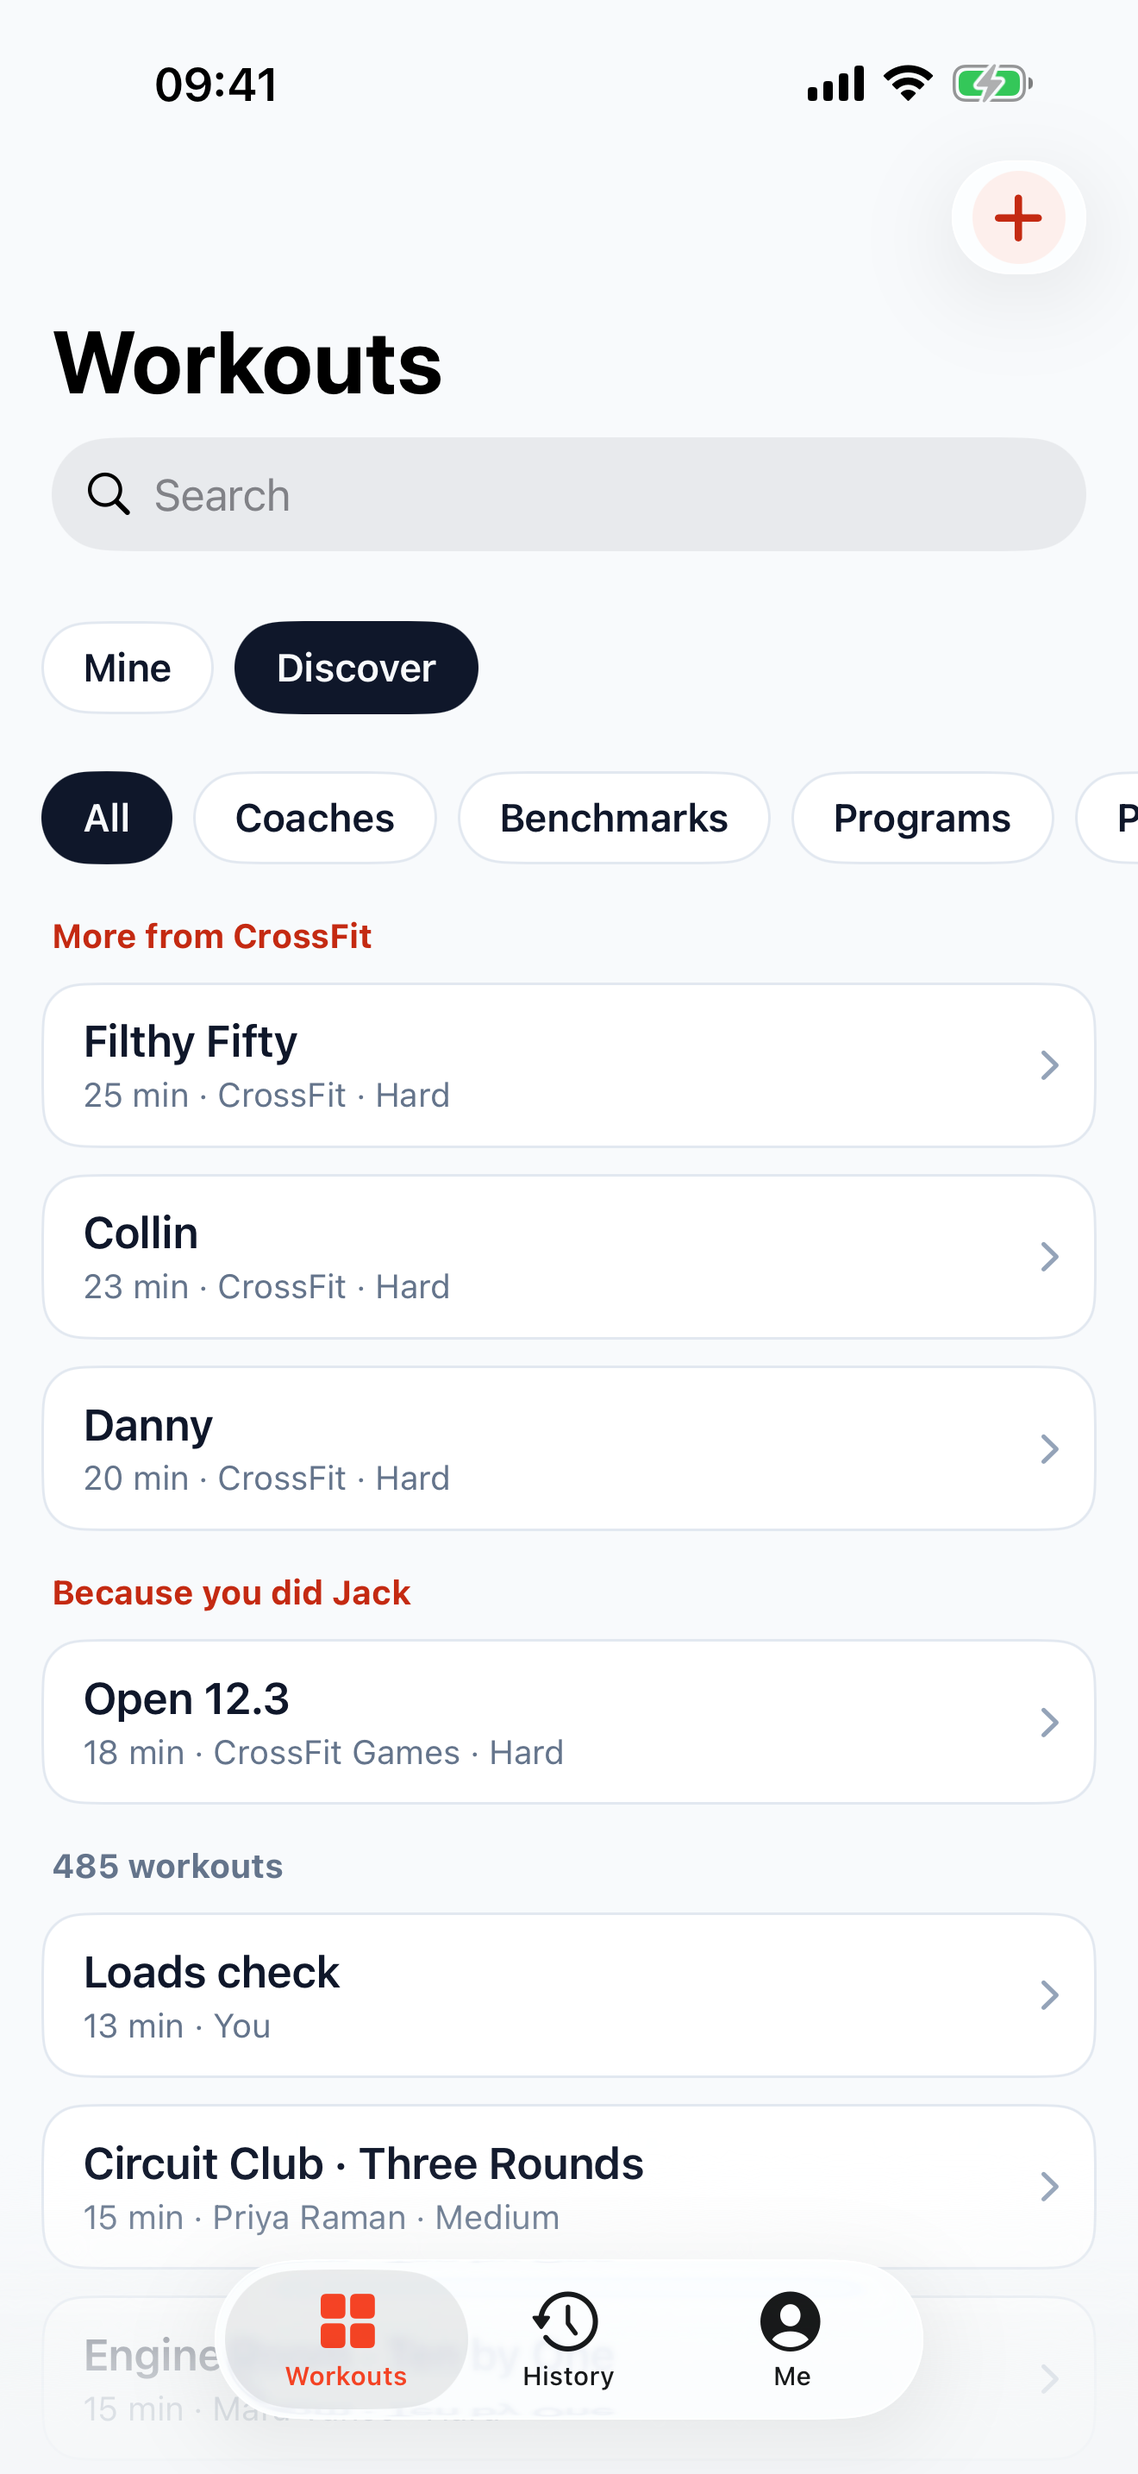
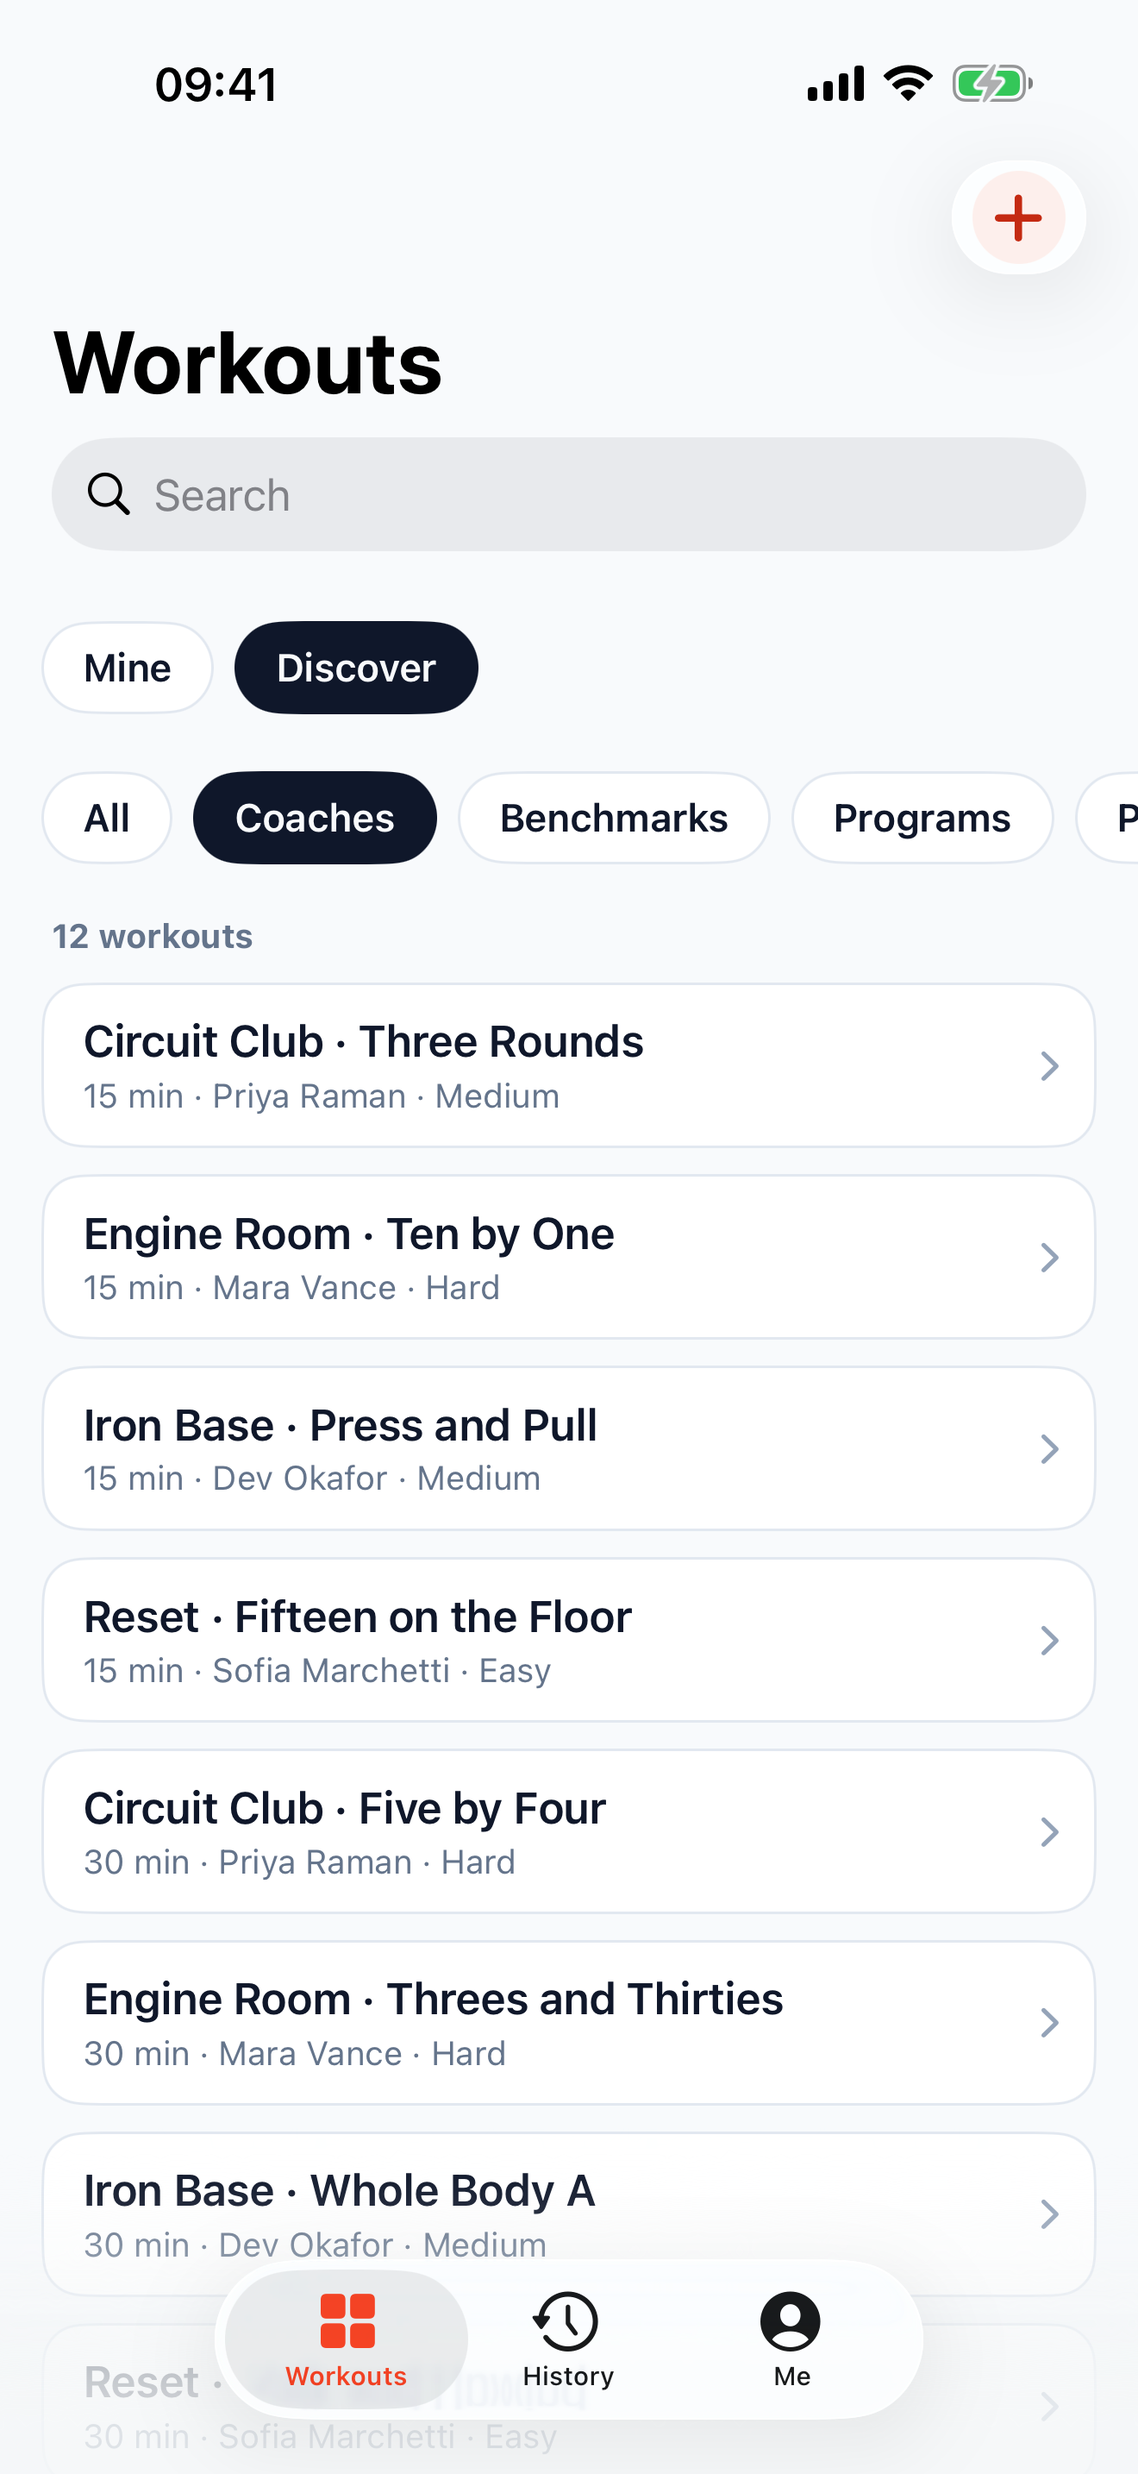
App Store listing: train solo, with AI or a PT (#113)
* ios: App Store screenshots without CrossFit names

Seed history with Engine AMRAP, a workout from Your AI coach, instead of
CrossFit's Jack, and open Discover on Coaches. Recaptured the raw shots.

Claude-Session: https://claude.ai/code/session_01HHeMDARgQx8ywBW6rJa3bh

* ios: App Store shot of an AI-written Arms and abs workout

-seedArmsAbs seeds the 30-minute workout an AI coach writes when asked for
arms and abs; the screenshot run captures it as 09-ai-workout.

Claude-Session: https://claude.ai/code/session_01HHeMDARgQx8ywBW6rJa3bh

* ios: App Store listing for solo, AI or PT training; 9 framed shots; hey@tigerworkouts.com contact

Claude-Session: https://claude.ai/code/session_01HHeMDARgQx8ywBW6rJa3bh

diff --git a/ios/TigerWorkouts/Cloud/Store+Seed.swift b/ios/TigerWorkouts/Cloud/Store+Seed.swift
@@ -82,11 +82,12 @@ extension Store {
         results = (results.filter { !ids.contains($0.rowId) } + seed).sorted { $0.startedAt > $1.startedAt }
     }
 
-    /// `-seedProgress` on launch: Jack (a 20-minute AMRAP) three times at 7, 7 and 8 rounds, the
-    /// newest a minute back so Up next picks it with a Today target, and kettlebell swings stuck at
-    /// 24 kg × 10 for five weeks — three sessions of their own plus the swings inside each Jack — so
-    /// the card has a stall line and the logbook a stall card. Fixed ids: launching with it again
-    /// replaces them.
+    /// `-seedProgress` on launch: "Engine AMRAP" (a 20-minute AMRAP your AI coach wrote) three times
+    /// at 7, 7 and 8 rounds, the newest a minute back so Up next picks it with a Today target, and
+    /// kettlebell swings stuck at 24 kg × 10 for five weeks — three sessions of their own plus the
+    /// swings inside each AMRAP — so the card has a stall line and the logbook a stall card. Not a
+    /// catalogue workout, so the App Store screenshots carry no third-party names. Fixed ids:
+    /// launching with it again replaces them.
     func seedProgressIfAsked(_ arguments: [String] = ProcessInfo.processInfo.arguments) {
         guard arguments.contains("-seedProgress") else { return }
         let day: TimeInterval = 86_400
@@ -100,11 +101,57 @@ extension Store {
                           steps: [swings(3)], id: "seed-progress-swings-\(Int(d))")
         }
         for (d, rounds) in [(14.0, 7.0), (7.0, 7.0), (60.0 / day, 8.0)] {
-            seed.append(SessionResult(runsheetId: "cf-hero-jack", title: "Jack", startedAt: ago(d), durationSec: 1_200, completed: true,
-                                      score: rounds, steps: [swings(Int(rounds))], id: "seed-progress-jack-\(Int(d))"))
+            seed.append(SessionResult(runsheetId: "seed-amrap", title: "Engine AMRAP", startedAt: ago(d), durationSec: 1_200, completed: true,
+                                      score: rounds, steps: [swings(Int(rounds))], id: "seed-progress-amrap-\(Int(d))"))
         }
+        func ex(_ key: String, _ name: String, _ step: Double) -> ExerciseRef {
+            Library.shared.exercise(key)?.ref ?? ExerciseRef(key: key, name: name, unit: "kg", step: step)
+        }
+        let steps: [Step] = [
+            .exercise(ExerciseStep(id: "s1", exercise: ex("bb_push_press", "Push press", 2.5), target: 52, forMode: .reps, forValue: 10)),
+            .exercise(ExerciseStep(id: "s2", exercise: ex("kb_swing", "Kettlebell swings", 4), target: 24, forMode: .reps, forValue: 10)),
+            .exercise(ExerciseStep(id: "s3", exercise: ex("bw_box_jump", "Box jump", 1), forMode: .reps, forValue: 10)),
+        ]
+        var sheet = Runsheet(id: "seed-amrap", title: "Engine AMRAP", items: [
+            .block(Block(id: "seed-amrap-b1", name: "Engine", mode: .amrap, steps: steps, timeCapSec: 1_200)),
+        ])
+        sheet.creator = "Your AI coach"
+        sheet.description = "As many rounds as you can in 20 minutes: 10 push presses, 10 kettlebell swings and 10 box jumps. Keep the swings unbroken; aim for one more round than last time."
+        myWorkouts = [sheet] + myWorkouts.filter { $0.key != "seed-amrap" }
         let ids = Set(seed.compactMap(\.id))
         results = (results.filter { !ids.contains($0.rowId) } + seed).sorted { $0.startedAt > $1.startedAt }
+    }
+
+    /// `-seedArmsAbs` on launch: "Arms and abs", the 30-minute workout an AI coach writes when asked
+    /// for arms and abs today — the App Store shot of a chat request landing in the app. Fixed id:
+    /// launching with it again replaces it.
+    func seedArmsAbsIfAsked(_ arguments: [String] = ProcessInfo.processInfo.arguments) {
+        guard arguments.contains("-seedArmsAbs") else { return }
+        func ex(_ key: String, _ name: String, _ unit: String = "kg", _ step: Double = 1) -> ExerciseRef {
+            Library.shared.exercise(key)?.ref ?? ExerciseRef(key: key, name: name, unit: unit, step: step)
+        }
+        func reps(_ id: String, _ e: ExerciseRef, _ n: Double, _ load: Double? = nil) -> Step {
+            .exercise(ExerciseStep(id: id, exercise: e, target: load, forMode: .reps, forValue: n))
+        }
+        let plank = ExerciseStep(id: "seed-aa-plank", exercise: ex("bw_plank", "Plank", "s", 10), forMode: .seconds, forValue: 45)
+        var sheet = Runsheet(id: "seed-armsabs", title: "Arms and abs", items: [
+            .block(Block(id: "seed-aa-b1", name: "Arms", repeatCount: 4, steps: [
+                reps("seed-aa-curl", ex("db_curl", "Dumbbell curl"), 10, 12),
+                reps("seed-aa-push", ex("cable_tricep_pushdown", "Tricep pushdown", "kg", 2.5), 12, 25),
+                reps("seed-aa-hammer", ex("db_hammer_curl", "Hammer curl"), 10, 12),
+                reps("seed-aa-kick", ex("db_tricep_kickback", "Triceps kickback"), 12, 8),
+                .rest(RestStep(id: "seed-aa-r1", seconds: 90)),
+            ])),
+            .block(Block(id: "seed-aa-b2", name: "Abs", repeatCount: 4, steps: [
+                .exercise(plank),
+                reps("seed-aa-crunch", ex("bw_reverse_crunch", "Reverse crunch", "", 1), 15),
+                reps("seed-aa-twist", ex("bw_russian_twist", "Russian twist", "", 1), 20),
+                .rest(RestStep(id: "seed-aa-r2", seconds: 60)),
+            ])),
+        ])
+        sheet.creator = "Your AI coach"
+        sheet.description = "Biceps, triceps and core in about 30 minutes: four rounds of curls and triceps work, then four rounds of planks, crunches and twists."
+        myWorkouts = [sheet] + myWorkouts.filter { $0.key != "seed-armsabs" }
     }
 
     /// `-seedLoads` on launch: a workout of your own, "Loads check", that embeds the NHS 6-minute

diff --git a/ios/TigerWorkoutsUITests/AppStoreScreenshotsUITests.swift b/ios/TigerWorkoutsUITests/AppStoreScreenshotsUITests.swift
@@ -11,7 +11,7 @@ final class AppStoreScreenshotsUITests: XCTestCase {
         continueAfterFailure = false
         app = XCUIApplication()
         app.launchEnvironment["UITEST_NO_PROMPTS"] = "1"
-        app.launchArguments = ["-seedLogbook", "-seedProgress", "-seedLoads"]
+        app.launchArguments = ["-seedLogbook", "-seedProgress", "-seedLoads", "-seedArmsAbs"]
         app.launch()
         let discard = app.alerts.buttons["Discard"]
         if discard.waitForExistence(timeout: 3) { discard.tap() }
@@ -20,11 +20,13 @@ final class AppStoreScreenshotsUITests: XCTestCase {
     func testAppStoreScreenshots() {
         XCTAssertTrue(app.navigationBars["Workouts"].waitForExistence(timeout: 10))
         tap(app.buttons["Discover"])
+        tap(app.buttons["Coaches"])
         sleep(2)
         snap("01-discover")
+        tap(app.buttons["All"])
         tap(app.buttons["Mine"])
 
-        open("Jack")
+        open("Engine AMRAP")
         XCTAssertTrue(app.descendants(matching: .any)["today-target"].waitForExistence(timeout: 5))
         sleep(1)
         snap("04-today-target")
@@ -51,6 +53,11 @@ final class AppStoreScreenshotsUITests: XCTestCase {
         sleep(1)
         snap("05-exercise")
         if app.buttons["Done"].exists { app.buttons["Done"].firstMatch.tap() }
+        back()
+
+        open("Arms and abs")
+        sleep(1)
+        snap("09-ai-workout")
         back()
 
         tap(app.tabBars.buttons["History"])

diff --git a/ios/TigerWorkoutsUITests/WalkthroughUITests.swift b/ios/TigerWorkoutsUITests/WalkthroughUITests.swift
@@ -1390,7 +1390,7 @@ final class WalkthroughUITests: XCTestCase {
         add(shot)
     }
 
-    /// Today's target and a stall, from seeded history: Jack at 7, 7 and 8 rounds, kettlebell swings
+    /// Today's target and a stall, from seeded history: Engine AMRAP at 7, 7 and 8 rounds, kettlebell swings
     /// stuck at 24 kg × 10 for five weeks.
     func testProgress() {
         app.terminate()
@@ -1407,7 +1407,7 @@ final class WalkthroughUITests: XCTestCase {
         snap("61 Exercise logbook with a stall")
         tap(app.tabBars.buttons["Workouts"])
 
-        open("Jack")
+        open("Engine AMRAP")
         XCTAssertTrue(app.descendants(matching: .any)["today-target"].waitForExistence(timeout: 5), "the workout page should carry the Today target")
         snap("62 Workout page with Today")
         tap(app.buttons["Start workout"])

diff --git a/ios/TigerWorkouts/Cloud/Store.swift b/ios/TigerWorkouts/Cloud/Store.swift
@@ -91,6 +91,7 @@ final class Store {
         seedPaceIfAsked()
         seedProgressIfAsked()
         seedLoadsIfAsked()
+        seedArmsAbsIfAsked()
         seedTimedIfAsked()
         seedVersionsIfAsked()
         seedAICoachIfAsked()

diff --git a/ios/framed-screenshots.py b/ios/framed-screenshots.py
@@ -14,9 +14,10 @@ CHROME = '/Applications/Google Chrome.app/Contents/MacOS/Google Chrome'
 W, H = 1206, 2622
 
 SHOTS = [
+    ('02-workout', 'Use ChatGPT, Claude or your PT as your trainer', 'A complete workout app, with or without a coach'),
     ('01-discover', 'Nearly 500 workouts', 'Benchmarks, strength, HIIT and NHS plans'),
-    ('02-workout', 'Plan every round', 'Exercises, rests and loads before you start'),
     ('03-timer', 'Hands-free timer', 'Tones and haptics at every change'),
+    ('09-ai-workout', 'Just ask ChatGPT', 'Your new workout is live in the app'),
     ('04-today-target', "Know today's target", 'Set from your last few attempts'),
     ('05-exercise', 'Dial in every set', 'Loads in kilos or % of your max'),
     ('06-logbook', 'See your progress', 'Charts, records and one-rep max'),
@@ -25,6 +26,10 @@ SHOTS = [
 ]
 
 mark = ''.join(re.findall(r"'([^']*)'", (HERE.parent / 'src/shared/brand/tiger-mark-path.ts').read_text()))
+
+
+CHAT = ('<div class="chat"><div class="b me"><span class="who">You</span>Add a new workout for me. I want to do arms and abs today, about 30 minutes.</div>'
+        '<div class="b ai"><span class="who">ChatGPT</span>Done. "Arms and abs" is live in your TigerWorkouts app: 29 min, curls and pushdowns, then planks, crunches and twists.<span class="live">&#10003; Live in your app</span></div></div>')
 
 
 def page(name: str, title: str, line: str, i: int) -> str:
@@ -45,11 +50,19 @@ p{{position:relative;margin:26px 0 0;text-align:center;color:#FFE1D9;font-size:4
 .phone{{position:relative;flex:none;margin-top:84px;width:930px;padding:18px;border-radius:118px;background:#121214;
 box-shadow:0 60px 120px rgba(60,8,0,.55),0 0 0 3px rgba(255,255,255,.12) inset}}
 .phone img{{display:block;width:930px;border-radius:100px}}
+.chat{{position:absolute;left:56px;right:56px;top:1120px;z-index:5;display:flex;flex-direction:column;gap:34px}}
+.b{{max-width:960px;padding:40px 46px;border-radius:52px;font-size:52px;font-weight:600;line-height:1.22;letter-spacing:-.4px;box-shadow:0 40px 90px rgba(20,2,0,.65)}}
+.me{{align-self:flex-end;background:#0A84FF;color:#fff;border-bottom-right-radius:14px}}
+.ai{{align-self:flex-start;background:#fff;color:#1d1d1f;border-bottom-left-radius:14px;outline:8px solid rgba(255,255,255,.35)}}
+.who{{display:block;font-size:30px;font-weight:800;letter-spacing:.6px;text-transform:uppercase;margin-bottom:12px;opacity:.8}}
+.ai .who{{color:#C42A12;opacity:1}}
+.live{{display:table;margin-top:24px;padding:14px 28px;border-radius:999px;background:#1FA463;color:#fff;font-size:38px;font-weight:700}}
+.dim::after{{content:"";position:absolute;inset:18px;border-radius:100px;background:rgba(20,6,2,.32)}}
 </style></head><body>
 <svg class="stripes" width="{W}" height="{H}" viewBox="0 0 {W} {H}"><g fill="#000">{stripes}</g></svg>
 <svg class="mark" viewBox="0 0 100 100"><path fill="#fff" fill-opacity=".95" d="{mark}"/></svg>
-<h1>{title}</h1><p>{line}</p>
-<div class="phone"><img src="file://{SRC}/iPhone69-{name}.png"></div>
+<h1 style="{'font-size:88px;letter-spacing:-2px' if i==0 else ''}">{title}</h1><p>{line}</p>
+{CHAT if name == '09-ai-workout' else ''}<div class="phone{' dim' if name == '09-ai-workout' else ''}"><img src="file://{SRC}/iPhone69-{name}.png"></div>
 </body></html>'''
 
 
@@ -58,8 +71,14 @@ with tempfile.TemporaryDirectory() as tmp:
     for i, (name, title, line) in enumerate(SHOTS):
         html = pathlib.Path(tmp) / f'{name}.html'
         html.write_text(page(name, title, line, i))
-        subprocess.run([CHROME, '--headless=new', '--disable-gpu', '--mute-audio', '--hide-scrollbars',
-                        '--allow-file-access-from-files', '--force-device-scale-factor=1', f'--window-size={W},{H}',
-                        f'--screenshot={OUT}/iPhone63-{name}.png', f'file://{html}'],
-                       check=True, capture_output=True)
-        print(f'iPhone63-{name}.png')
+        for _ in range(3):  # headless Chrome now and then exits 2 without writing the file
+            shot = OUT / f'iPhone63-{i+1:02d}-{name}.png'
+            subprocess.run([CHROME, '--headless=new', '--disable-gpu', '--mute-audio', '--hide-scrollbars',
+                            '--allow-file-access-from-files', '--force-device-scale-factor=1', f'--window-size={W},{H}',
+                            f'--screenshot={shot}', f'file://{html}'],
+                           capture_output=True)
+            if shot.exists():
+                break
+        else:
+            raise SystemExit(f'Chrome did not write {shot.name}')
+        print(shot.name)

diff --git a/specs/app-store-submission.md b/specs/app-store-submission.md
@@ -27,7 +27,7 @@ Metadata follows fastlane `deliver`'s layout in `ios/fastlane/`, so it can be up
 | Field | Value |
 |---|---|
 | Name (≤ 30) | `en-GB/name.txt`: TigerWorkouts: Gym Timer & Log (30). If the record's name is plain "TigerWorkouts", either is fine. |
-| Subtitle (≤ 30) | `en-GB/subtitle.txt`: Guided timer, every set logged (30) |
+| Subtitle (≤ 30) | `en-GB/subtitle.txt`: Train solo, with AI or a PT (27) |
 | Bundle ID | dev.brambruesch.tigerworkouts |
 | SKU | whatever the record already has |
 | Primary category | Health & Fitness (`primary_category.txt`) |
@@ -40,15 +40,15 @@ Metadata follows fastlane `deliver`'s layout in `ios/fastlane/`, so it can be up
 
 | Field | Value |
 |---|---|
-| Promotional text (≤ 170) | `en-GB/promotional_text.txt` (134) |
+| Promotional text (≤ 170) | `en-GB/promotional_text.txt` (162) |
 | Description | `en-GB/description.txt` |
-| Keywords (≤ 100) | `en-GB/keywords.txt` (99). No trademarks (no CrossFit, HYROX): guideline 2.3.7. |
+| Keywords (≤ 100) | `en-GB/keywords.txt` (97). No trademarks (no CrossFit, HYROX): guideline 2.3.7. |
 | Support URL | https://tigerworkouts.com/support/ (`en-GB/support_url.txt`) |
 | Marketing URL | https://tigerworkouts.com/ (`en-GB/marketing_url.txt`) |
 | What's New | not shown for a first version; `en-GB/release_notes.txt` for later |
 | Copyright | 2026 Brambruesch Ltd (`copyright.txt`) |
 | Version | 1.0 (`MARKETING_VERSION` in `ios/project.yml`); build numbers are set by App Store Connect on upload |
-| Screenshots, iPhone | App Store Connect now asks for the 6.1"/6.3" slot (1206 × 2622). Uploaded 1 Nov 2026: `ios/fastlane/screenshots-framed/en-GB/`, 8 PNGs with the coral tiger-stripe background and a headline each, made from the plain shots in `ios/fastlane/screenshots/en-GB/` by `ios/framed-screenshots.py` (headless Chrome). No iPad: the app is iPhone-only (`TARGETED_DEVICE_FAMILY: "1"`). Retake with `ios/screenshots.sh`, then `ios/framed-screenshots.py`. |
+| Screenshots, iPhone | App Store Connect now asks for the 6.1"/6.3" slot (1206 × 2622). 4 Nov 2026: `ios/fastlane/screenshots-framed/en-GB/`, 9 PNGs (order in the file name; screen 1 the workout with "Use ChatGPT, Claude or your PT as your trainer", screen 4 a ChatGPT request over the workout it wrote) with the coral tiger-stripe background and a headline each, made from the plain shots in `ios/fastlane/screenshots/en-GB/` by `ios/framed-screenshots.py` (headless Chrome). No iPad: the app is iPhone-only (`TARGETED_DEVICE_FAMILY: "1"`). Retake with `ios/screenshots.sh`, then `ios/framed-screenshots.py`. |
 | App Review contact | `review_information/`: first and last name, email; phone left blank for Nick |
 | Review notes | `review_information/notes.txt` |
 | Sign-in information | `review-apple@tigerworkouts.com` / password from Keychain (`review_information/demo_user.txt`, `demo_password.txt` is a placeholder). The app itself needs no account; the notes give the signed-out path first. |
